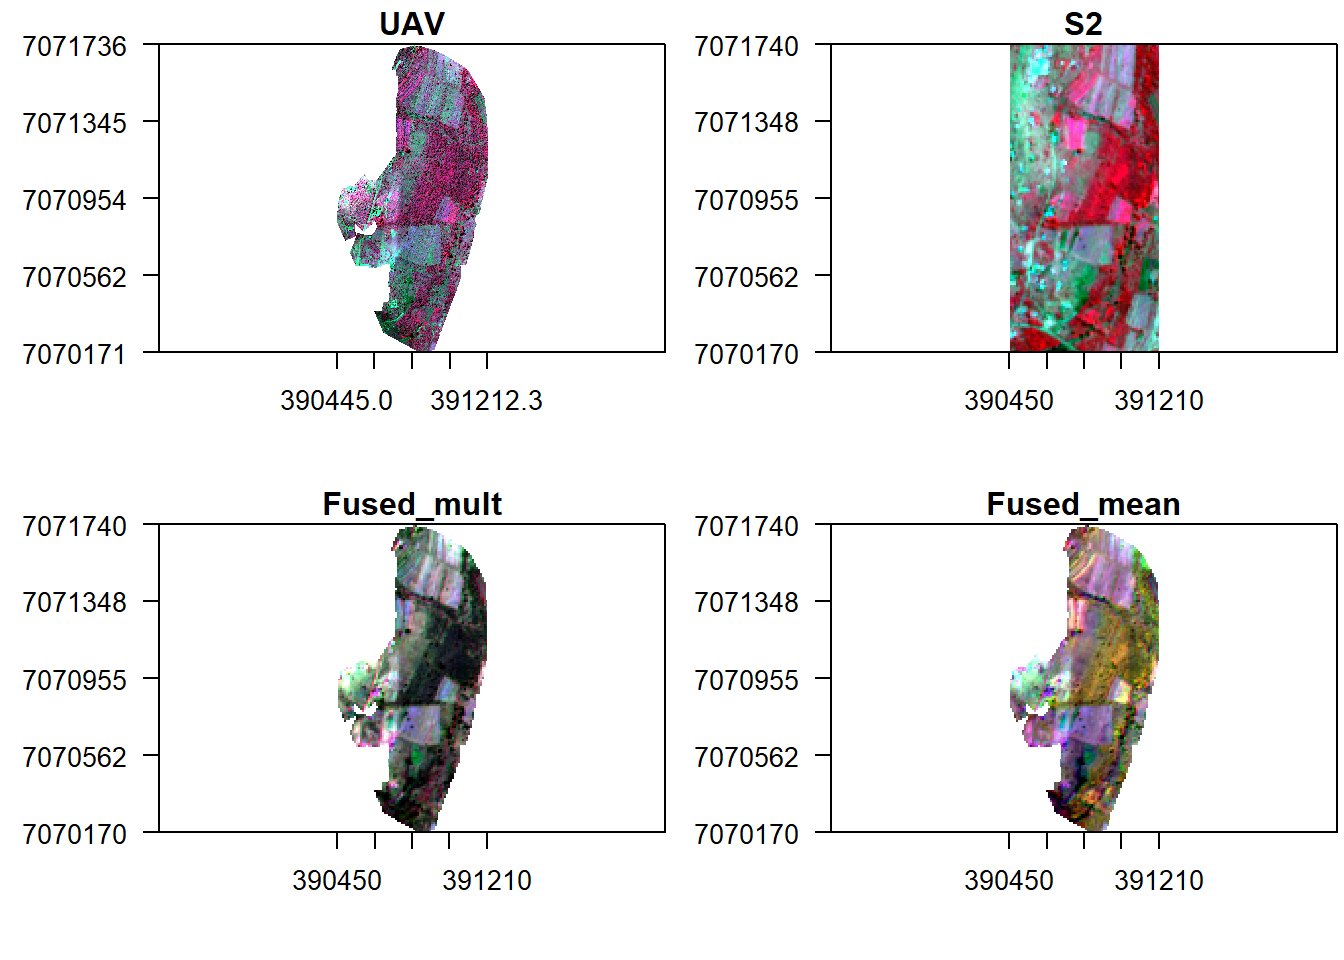
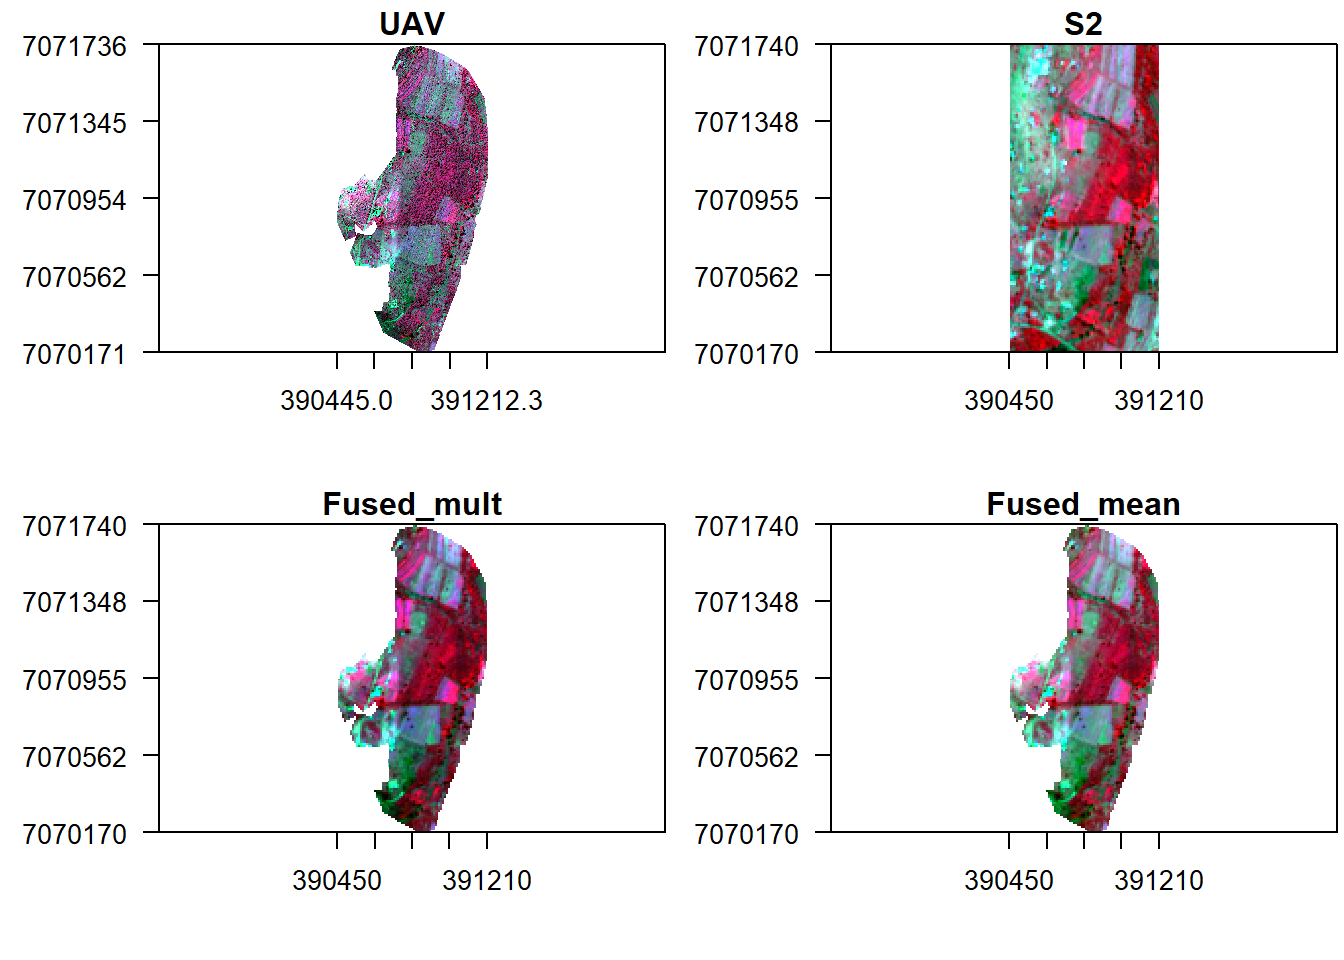
--Corrected band order during stacking

Changed region(s): [[0.75, 0.5312, 0.875, 0.875], [0.25, 0.5312, 0.375, 0.875]]

diff --git a/fusion.html b/fusion.html
@@ -429,12 +429,16 @@ s</code></pre>
 ##               ... and 1 more source(s)
 ## names       : RT_T36J~611_B02, RT_T36J~611_B03, RT_T36J~611_B04, RT_T36J~611_B08</code></pre>
 <pre class="r"><code>path &lt;- list.files(paste0(Root,&#39;WingtraOne/&#39;),pattern = (&quot;.tif$&quot;), recursive = TRUE, full.names = TRUE)
-path</code></pre>
+#reorder the bands
+paths &lt;- path
+paths[3] &lt;- path[4]
+paths[4] &lt;- path[3]
+paths</code></pre>
 <pre><code>## [1] &quot;D:/JKUAT/RESEARCH_Projects/Eswatini/Data/WingtraOne/mpolonjeni_05042021m3f1_transparent_reflectance_blue.tif&quot; 
 ## [2] &quot;D:/JKUAT/RESEARCH_Projects/Eswatini/Data/WingtraOne/mpolonjeni_05042021m3f1_transparent_reflectance_green.tif&quot;
-## [3] &quot;D:/JKUAT/RESEARCH_Projects/Eswatini/Data/WingtraOne/mpolonjeni_05042021m3f1_transparent_reflectance_nir.tif&quot;  
-## [4] &quot;D:/JKUAT/RESEARCH_Projects/Eswatini/Data/WingtraOne/mpolonjeni_05042021m3f1_transparent_reflectance_red.tif&quot;</code></pre>
-<pre class="r"><code>v &lt;- rast(path)
+## [3] &quot;D:/JKUAT/RESEARCH_Projects/Eswatini/Data/WingtraOne/mpolonjeni_05042021m3f1_transparent_reflectance_red.tif&quot;  
+## [4] &quot;D:/JKUAT/RESEARCH_Projects/Eswatini/Data/WingtraOne/mpolonjeni_05042021m3f1_transparent_reflectance_nir.tif&quot;</code></pre>
+<pre class="r"><code>v &lt;- rast(paths)
 v</code></pre>
 <pre><code>## class       : SpatRaster 
 ## dimensions  : 12981, 6363, 4  (nrow, ncol, nlyr)
@@ -443,9 +447,9 @@ v</code></pre>
 ## coord. ref. : +proj=utm +zone=36 +south +datum=WGS84 +units=m +no_defs 
 ## sources     : mpolonjeni_05042021m3f1_transparent_reflectance_blue.tif  
 ##               mpolonjeni_05042021m3f1_transparent_reflectance_green.tif  
-##               mpolonjeni_05042021m3f1_transparent_reflectance_nir.tif  
+##               mpolonjeni_05042021m3f1_transparent_reflectance_red.tif  
 ##               ... and 1 more source(s)
-## names       : mpolonj~ce_blue, mpolonj~e_green, mpolonj~nce_nir, mpolonj~nce_red</code></pre>
+## names       : mpolonj~ce_blue, mpolonj~e_green, mpolonj~nce_red, mpolonj~nce_nir</code></pre>
 <p>Now check image properties and assign meaningful names to its bands.</p>
 <pre class="r"><code>#Resolution
 res(s)</code></pre>
@@ -477,7 +481,7 @@ s</code></pre>
 <pre><code>## SpatExtent : 390445.0352, 391212.34937, 7070171.12052, 7071736.49931 (xmin, xmax, ymin, ymax)</code></pre>
 <pre class="r"><code>dim(v)</code></pre>
 <pre><code>## [1] 12981  6363     4</code></pre>
-<pre class="r"><code>names(v) &lt;- c(&quot;b&quot;, &quot;g&quot;,&quot;nir&quot;, &quot;r&quot;)
+<pre class="r"><code>names(v) &lt;- c(&quot;b&quot;, &quot;g&quot;,&quot;r&quot;, &quot;nir&quot;)
 v</code></pre>
 <pre><code>## class       : SpatRaster 
 ## dimensions  : 12981, 6363, 4  (nrow, ncol, nlyr)
@@ -486,9 +490,9 @@ v</code></pre>
 ## coord. ref. : +proj=utm +zone=36 +south +datum=WGS84 +units=m +no_defs 
 ## sources     : mpolonjeni_05042021m3f1_transparent_reflectance_blue.tif  
 ##               mpolonjeni_05042021m3f1_transparent_reflectance_green.tif  
-##               mpolonjeni_05042021m3f1_transparent_reflectance_nir.tif  
+##               mpolonjeni_05042021m3f1_transparent_reflectance_red.tif  
 ##               ... and 1 more source(s)
-## names       : b, g, nir, r</code></pre>
+## names       : b, g, r, nir</code></pre>
 <p>Crop Sentinel 2 image to UAV image extents.</p>
 <pre class="r"><code>s &lt;- crop(s, ext(v), snap=&quot;near&quot;)</code></pre>
 <p>Display the images side by side.</p>
@@ -517,8 +521,8 @@ f1</code></pre>
 ## coord. ref. : +proj=utm +zone=36 +south +datum=WGS84 +units=m +no_defs 
 ## source      : memory 
 ## names       :            b,            g,            r,          nir 
-## min values  : 0.0002068561, 0.0005442272, 0.0026425113, 0.0019369536 
-## max values  :   0.01279990,   0.01698387,   0.05305753,   0.04016119</code></pre>
+## min values  : 0.0002068561, 0.0005442272, 0.0003042399, 0.0094109712 
+## max values  :   0.01279990,   0.01698387,   0.02435488,   0.18333833</code></pre>
 <pre class="r"><code>#Display fused image alongside original UAV
 x11()
 par(mfrow = c(1, 3),mar = c(4, 5, 1.4, 0.2)) 
@@ -540,8 +544,8 @@ f2</code></pre>
 ## coord. ref. : +proj=utm +zone=36 +south +datum=WGS84 +units=m +no_defs 
 ## source      : memory 
 ## names       :          b,          g,          r,        nir 
-## min values  : 0.01532078, 0.02351120, 0.05345298, 0.06345835 
-## max values  :  0.1225800,  0.1548688,  0.3631510,  0.2155108</code></pre>
+## min values  : 0.01532078, 0.02351120, 0.01861056, 0.09712517 
+## max values  :  0.1225800,  0.1548688,  0.1717744,  0.4470450</code></pre>
 <pre class="r"><code>#Display fused image alongside original UAV
 x11()
 par(mfrow = c(2, 2), mar = c(4, 5, 1.4, 0.2)) 
